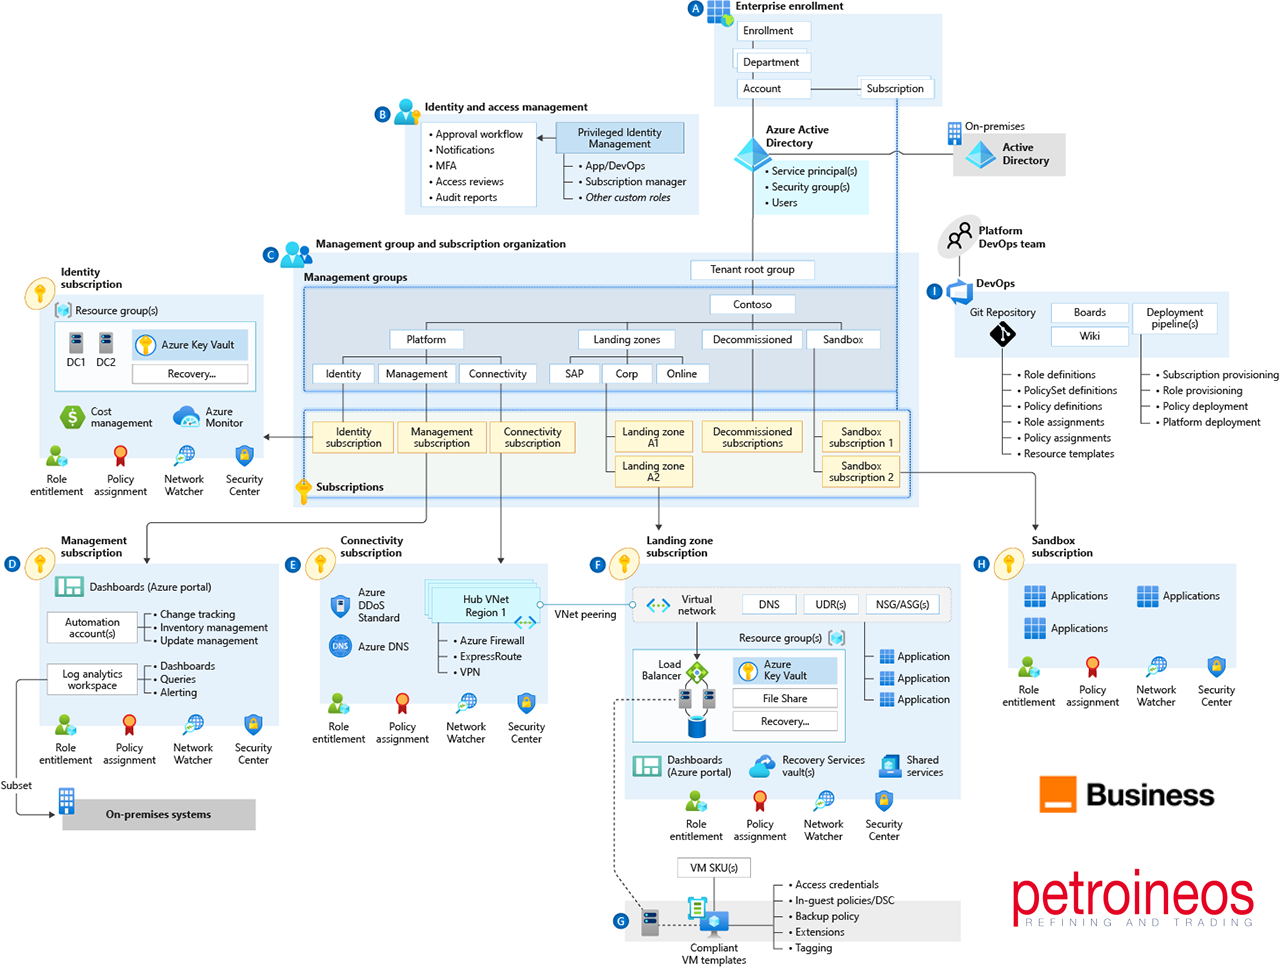
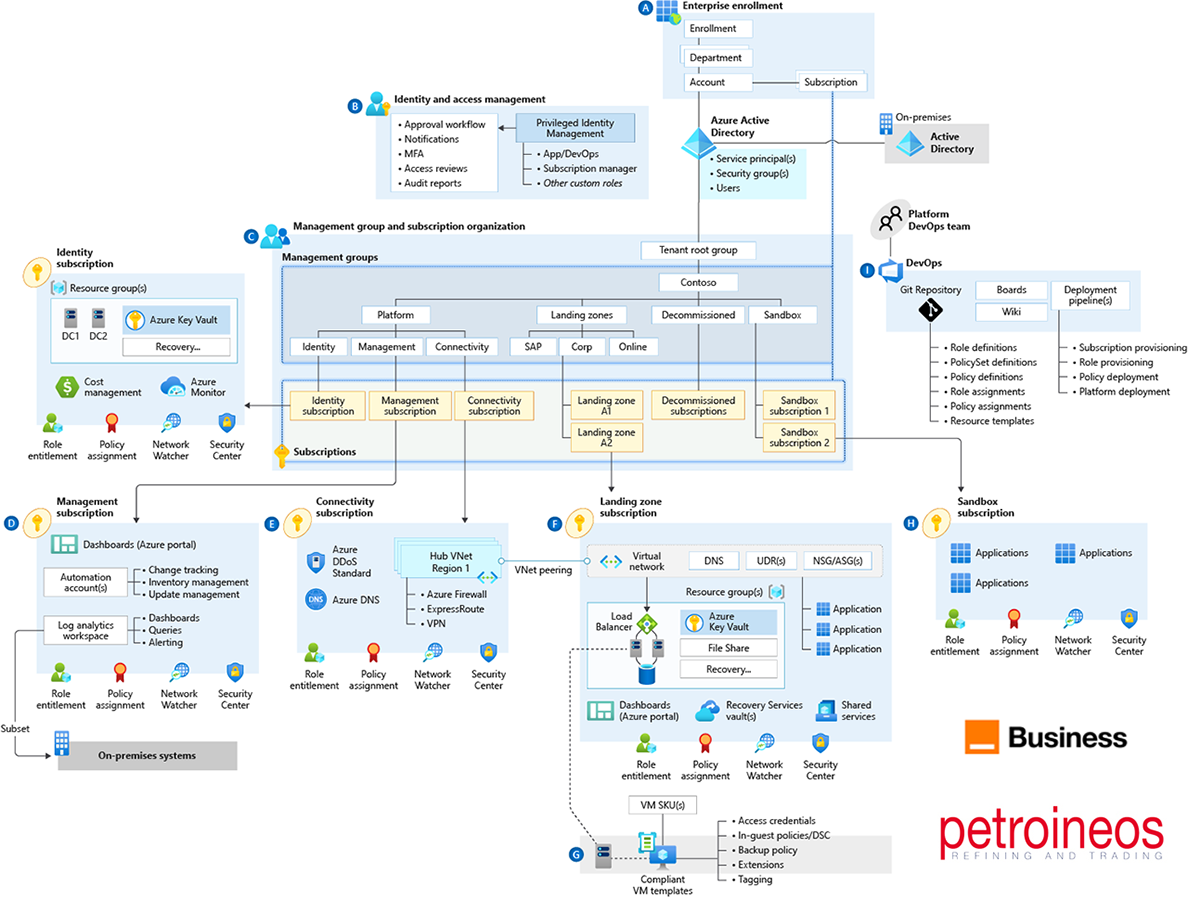
resize images

diff --git a/_posts/fr/2023-07-16-projet-petroineos.md b/_posts/fr/2023-07-16-projet-petroineos.md
@@ -46,7 +46,7 @@ Concernant le déploiement des zones applicatives, nous avons fait le choix des 
 
 Vous trouverez ci-dessous une version très très high level de l'architecture, mais elle permet de comprendre l'idée générale de la Landing zone:
 
-![hld](/images/post/2022/07/2023-07-16-retour-sur-le-projet-petroineos.png)
+![hld](/images/post/2023/07/2023-07-16-retour-sur-le-projet-petroineos-hld.png)
 
 Afin d'adresser le processus finops nous avons mis en place une petite azure fonction qui alimente le datalake avec tous les coûts azure chaque jour. Simple et efficace le tableau de bord PowerBi évite le débordement des coûts en offrant au pilote de projet un retour rapide sur les dépenses engagées.
 

diff --git a/_posts/en/2023-07-16-petroineos-project.md b/_posts/en/2023-07-16-petroineos-project.md
@@ -46,7 +46,7 @@ Regarding the deployment of application areas, we have chosen to host in an appl
 
 Below is a very very high level version of the architecture, but it helps to understand the general idea of the Landing zone:
 
-![hld](/images/post/2023/07/2023-07-16-back-to-the-petroineos-project.png)
+![hld](/images/post/2023/07/2023-07-16-retour-sur-le-projet-petroineos-hld.png)
 
 In order to address the finops process we implemented a small azure function which feeds the datalake with all the azure costs every day. Simple and effective, the PowerBi dashboard avoids cost overflow by offering the project manager a quick return on the expenses incurred.
 
